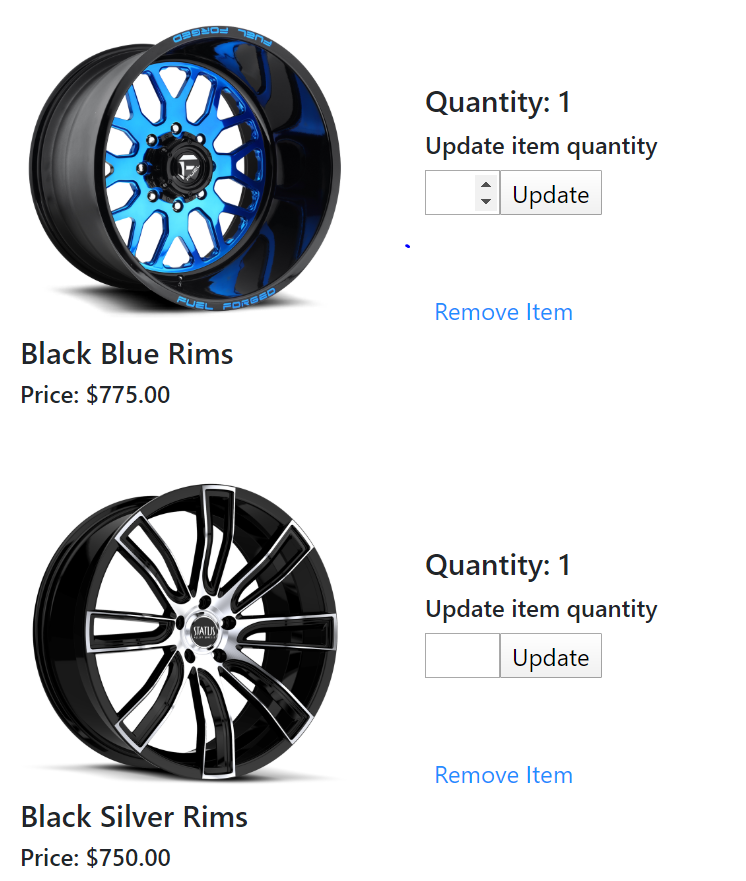
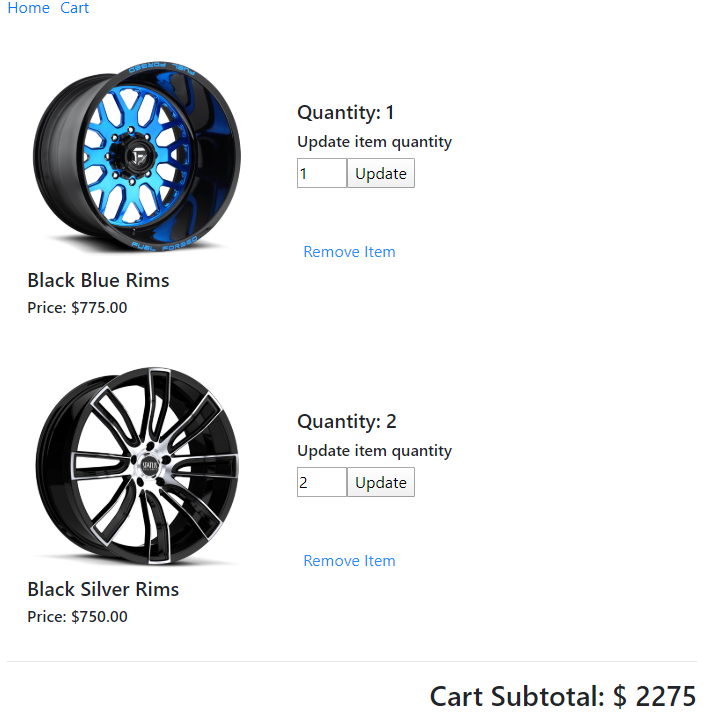
added subtotal

diff --git a/README.md b/README.md
@@ -735,7 +735,33 @@ Pass in the cart state in App.vue into the router-view.
    />
 ```
 
+There’s one additional step that’s going to be more hands on. Customers would like to see their subtotal (total price before tax, shipping, discounts, etc) price when they check their cart. Being able to see price change when quantity changes improves user’s experience.
+
+Create a [computed](https://v1.vuejs.org/guide/computed.html) property inside of CartPage.vue export default object. Because text interpolation can only support simple operations, computed provides the space to perform them.
+
+To get the subtotal, use the [reduce](https://developer.mozilla.org/en-US/docs/Web/JavaScript/Reference/Global_Objects/Array/reduce) array method on the cart array. 
+
+
+```javascript
+   cartTotal() {
+     return this.cart.reduce(
+       (acc, currentEl) => acc + currentEl.quantity * currentEl.price.raw, 0);
+   }
+```
+
+Reduce takes in a callback function with two parameters: Accumulator (acc) and currentElement (currentEl). Each element it iterates through is added to acc. Acc is carried over for each iteration. Each element is a product from the cart so you can access its price and quantity.
+
+Add the computed value into your template.
+
+
 If you added items into your cart, your result will look like this.
+
+```html
+   <div>
+     <hr>
+     <h3 class="subtotal">Cart Subtotal: $ {{ cartTotal }}</h3>
+   </div>
+```
 
 ![img5](/public/img5.png)
 
